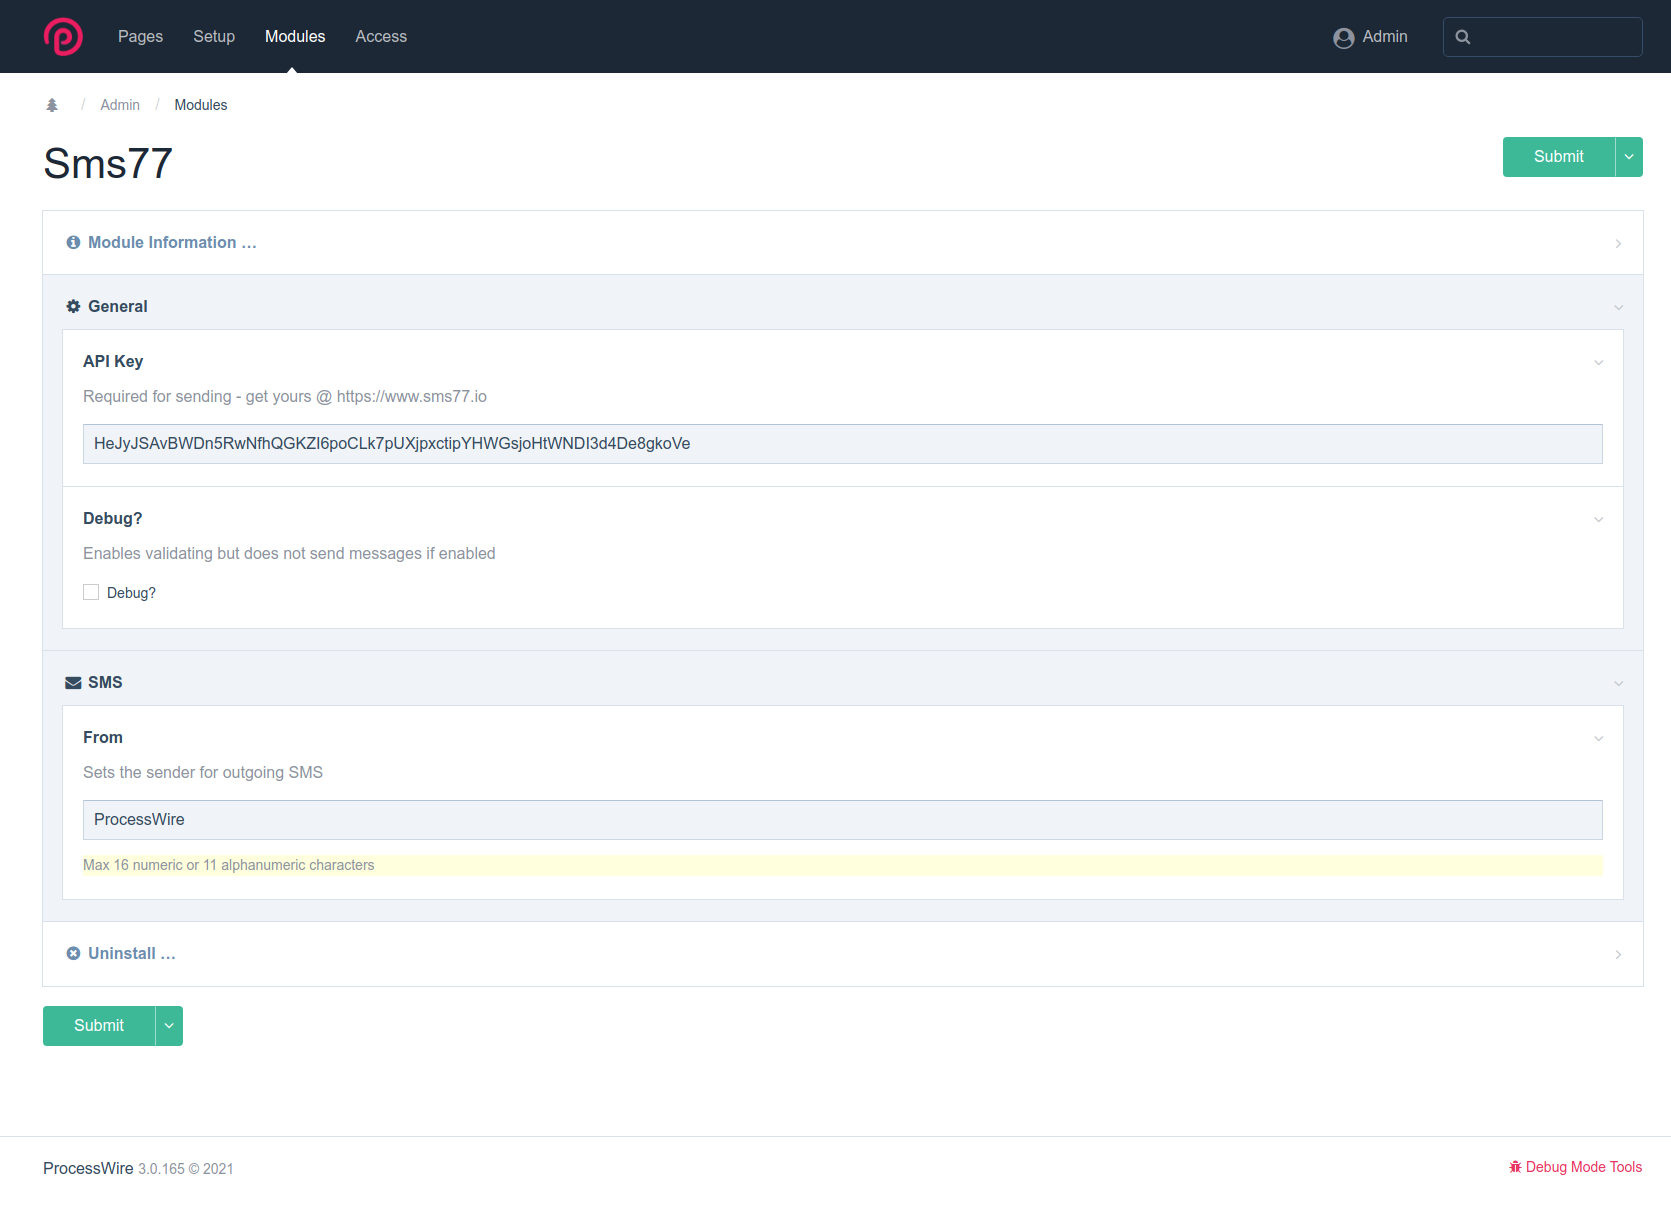
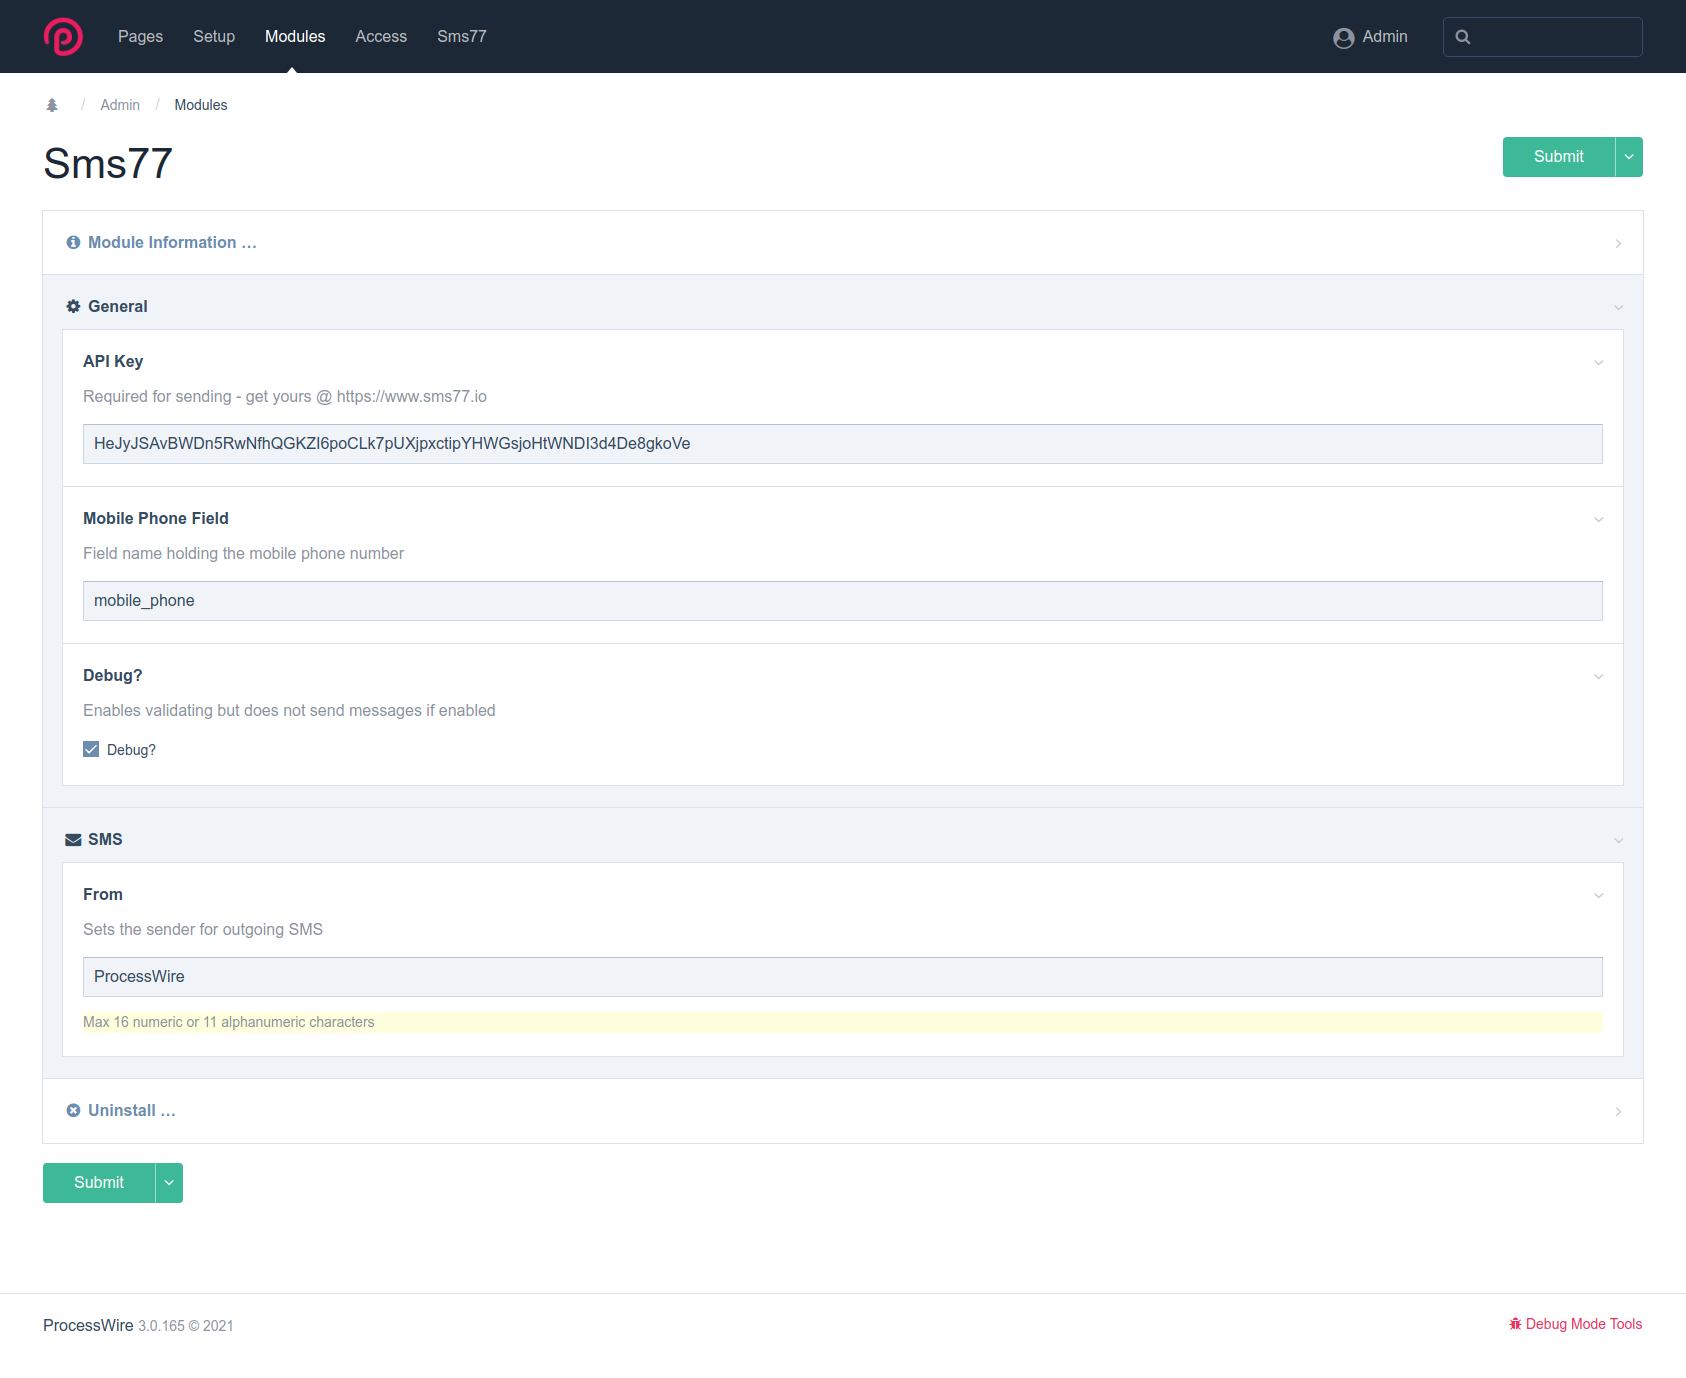
add bulk sms; add configurable mobile phone field

diff --git a/README.md b/README.md
@@ -9,13 +9,20 @@
 4. Select `user` template, add `mobile_phone` field and press `Save` - see [screenshot](_screenshots/edit_user_template.png)
 5. Go to `Admin->Modules->Sms77`, enter your `API Key` and press `Submit`
 
-### Placeholders
+### Features
+
+- Send SMS to user - see [screenshot](_screenshots/sms_user.png)
+- Bulk message users - see [screenshot](_screenshots/edit_user_template.png)
+- Configurable mobile phone field
+- Message placeholder(s) - see [here](#placeholders)
+
+#### Placeholders
 
 - email
 
 Usage: `{{email}}` resolves to the users email address
 
-#### Support
+##### Support
 
 Need help? Feel free to [contact us](https://www.sms77.io/en/company/contact/).
 
